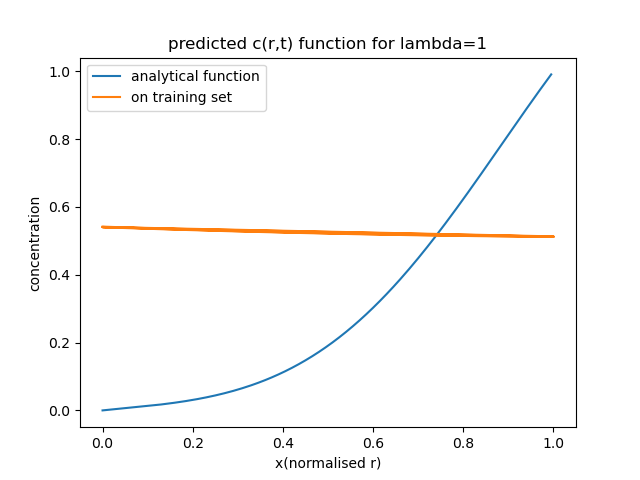
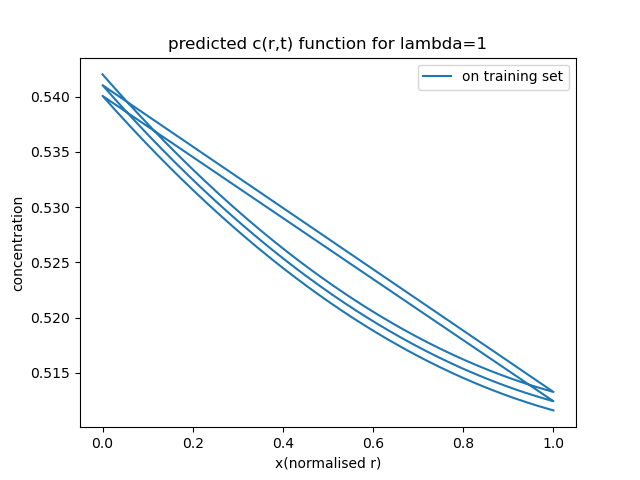
commit

diff --git a/basic_alpha1.py b/basic_alpha1.py
@@ -272,7 +272,6 @@ for Nr in Nr_arr:
                 print("Nf : " + str(Nf))
                 print("lambda:" + str(w))
 
-                # print(y1_arr)
                 for j in range(3):
                     a_rel = 0
                     a_train = 0
@@ -280,30 +279,30 @@ for Nr in Nr_arr:
                     v = 10
                     print('iteration no.:', j + 1)
                     ## start
-                    # for i in range(steps):
-                    #     if i == 0:
-                    #         print("Training Loss-----Test Loss")
-                    #     loss = PINN.loss(X_train_Nu, Y_train_Nu, X_train_Nf, f_hat, layers)  # use mean squared error
-                    #     # rel_er = PINN.rel_loss(X_train_Nu, Y_train_Nu, X_train_Nf, f_hat, layers)  # .
-                    #     optimizer.zero_grad()
-                    #     loss.backward()
-                    #     # rel_er.backward()
-                    #     optimizer.step()
-                    #     if i % (steps / v) == 0:
-                    #         with torch.no_grad():
-                    #             test_loss = PINN.lossBC(X_test, Y_test, layers)
-                    #
-                    #         # re = rel_er.detach().cpu().numpy()  # rel. error
-                    #         tre = loss.detach().cpu().numpy()  # training error
-                    #         te = test_loss.detach().cpu().numpy()  # test error
-                    #
-                    #         # a_rel = a_rel + re
-                    #         a_train = a_train + tre
-                    #         a_test = a_test + te
-                    #
-                    #         print(tre, '---', te)
-                    # print("Average losses:")
-                    # print(round(a_train / v, 15), '---', round(a_test / v, 9))
+                    for i in range(steps):
+                        if i == 0:
+                            print("Training Loss-----Test Loss")
+                        loss = PINN.loss(X_train_Nu, Y_train_Nu, X_train_Nf, f_hat, layers)  # use mean squared error
+                        # rel_er = PINN.rel_loss(X_train_Nu, Y_train_Nu, X_train_Nf, f_hat, layers)  # .
+                        optimizer.zero_grad()
+                        loss.backward()
+                        # rel_er.backward()
+                        optimizer.step()
+                        if i % (steps / v) == 0:
+                            with torch.no_grad():
+                                test_loss = PINN.lossBC(X_test, Y_test, layers)
+
+                            # re = rel_er.detach().cpu().numpy()  # rel. error
+                            tre = loss.detach().cpu().numpy()  # training error
+                            te = test_loss.detach().cpu().numpy()  # test error
+
+                            # a_rel = a_rel + re
+                            a_train = a_train + tre
+                            a_test = a_test + te
+
+                            print(tre, '---', te)
+                    print("Average losses:")
+                    print(round(a_train / v, 15), '---', round(a_test / v, 9))
                     ## end
                     y1_all = PINN(X_test)
                     x1_all = X_test[:, 0]
@@ -324,7 +323,7 @@ for Nr in Nr_arr:
                     plt.title("predicted c(r,t) function for lambda=" + str(w))
                     plt.xlabel("x(normalised r)")
                     plt.ylabel("concentration")
-                    plt.plot(arr_x1,arr_y1,label="on training set")
+                    plt.plot(arr_x1,arr_y1,label="predicted function")
                     # plt.plot(arr_x1, arr_y_test,label="on test set")
 
                     plt.legend()
